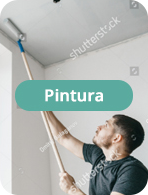
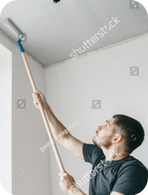
Changed the service cards on the main page

diff --git a/themes/valeapp/css/style.css b/themes/valeapp/css/style.css
@@ -5099,6 +5099,26 @@ a.tokens-btn:focus{
 .Popular {
   padding: 2rem 1rem 1rem 1rem;
 }
+.Popular .imgContent{
+  position: relative;
+}
+  
+.Popular .textImg{
+    background-color: #5aab9f;
+    padding: 0.3rem 1.2rem;
+    border-radius: 2rem;
+    font-size: 1.1rem;
+    font-weight: 700;
+    color: #fff;
+    font-family: "Open Sans";
+    line-height: 1.6rem;
+    position: absolute;
+    left: 50%;
+    top: 40%;
+    width: 7.38rem;
+    text-align: center;
+    transform: translateX(-50%);
+}
 
 .Popular .title{
   text-align: center;

diff --git a/themes/valeapp/page-home.php b/themes/valeapp/page-home.php
@@ -118,12 +118,42 @@ get_header();
   <div class="Popular">
     <h2 class="title">Servcios mas populares</h2>
     <div class="content">
-      <img class="img-fluid popular" src="<?php echo get_stylesheet_directory_uri(); ?>/img/valeapp-home-popular1.png" alt="valeapp">
-      <img class="img-fluid popular" src="<?php echo get_stylesheet_directory_uri(); ?>/img/valeapp-home-popular2.png" alt="valeapp">
-      <img class="img-fluid popular" src="<?php echo get_stylesheet_directory_uri(); ?>/img/valeapp-home-popular3.png" alt="valeapp">
-      <img class="img-fluid popular" src="<?php echo get_stylesheet_directory_uri(); ?>/img/valeapp-home-popular4.png" alt="valeapp">
-      <img class="img-fluid popular" src="<?php echo get_stylesheet_directory_uri(); ?>/img/valeapp-home-popular5.png" alt="valeapp">
-      <img class="img-fluid popular" src="<?php echo get_stylesheet_directory_uri(); ?>/img/valeapp-home-popular6.png" alt="valeapp">
+      <div class=imgContent>
+        <img class="img-fluid popular" src="<?php echo get_stylesheet_directory_uri(); ?>/img/valeapp-home-popular1.png" alt="valeapp">
+        <span class="textImg">
+          Limpieza
+        </span>
+      </div>
+      <div class=imgContent>
+        <img class="img-fluid popular" src="<?php echo get_stylesheet_directory_uri(); ?>/img/valeapp-home-popular2.png" alt="valeapp">
+        <span class="textImg">
+        Mascotas
+        </span>
+      </div>
+      <div class=imgContent>
+        <img class="img-fluid popular" src="<?php echo get_stylesheet_directory_uri(); ?>/img/valeapp-home-popular3.png" alt="valeapp">
+        <span class="textImg">
+        Uñas
+        </span>
+      </div>
+      <div class=imgContent>
+        <img class="img-fluid popular" src="<?php echo get_stylesheet_directory_uri(); ?>/img/valeapp-home-popular4.png" alt="valeapp">
+        <span class="textImg">
+        Pintura
+        </span>
+      </div>
+      <div class=imgContent>
+        <img class="img-fluid popular" src="<?php echo get_stylesheet_directory_uri(); ?>/img/valeapp-home-popular5.png" alt="valeapp">
+        <span class="textImg">
+        Meditación
+        </span>
+      </div>
+      <div class=imgContent>
+        <img class="img-fluid popular" src="<?php echo get_stylesheet_directory_uri(); ?>/img/valeapp-home-popular6.png" alt="valeapp">
+        <span class="textImg">
+        Mudanza
+        </span>
+      </div>
     </div>
   </div>
   <div class="WhyVale">
